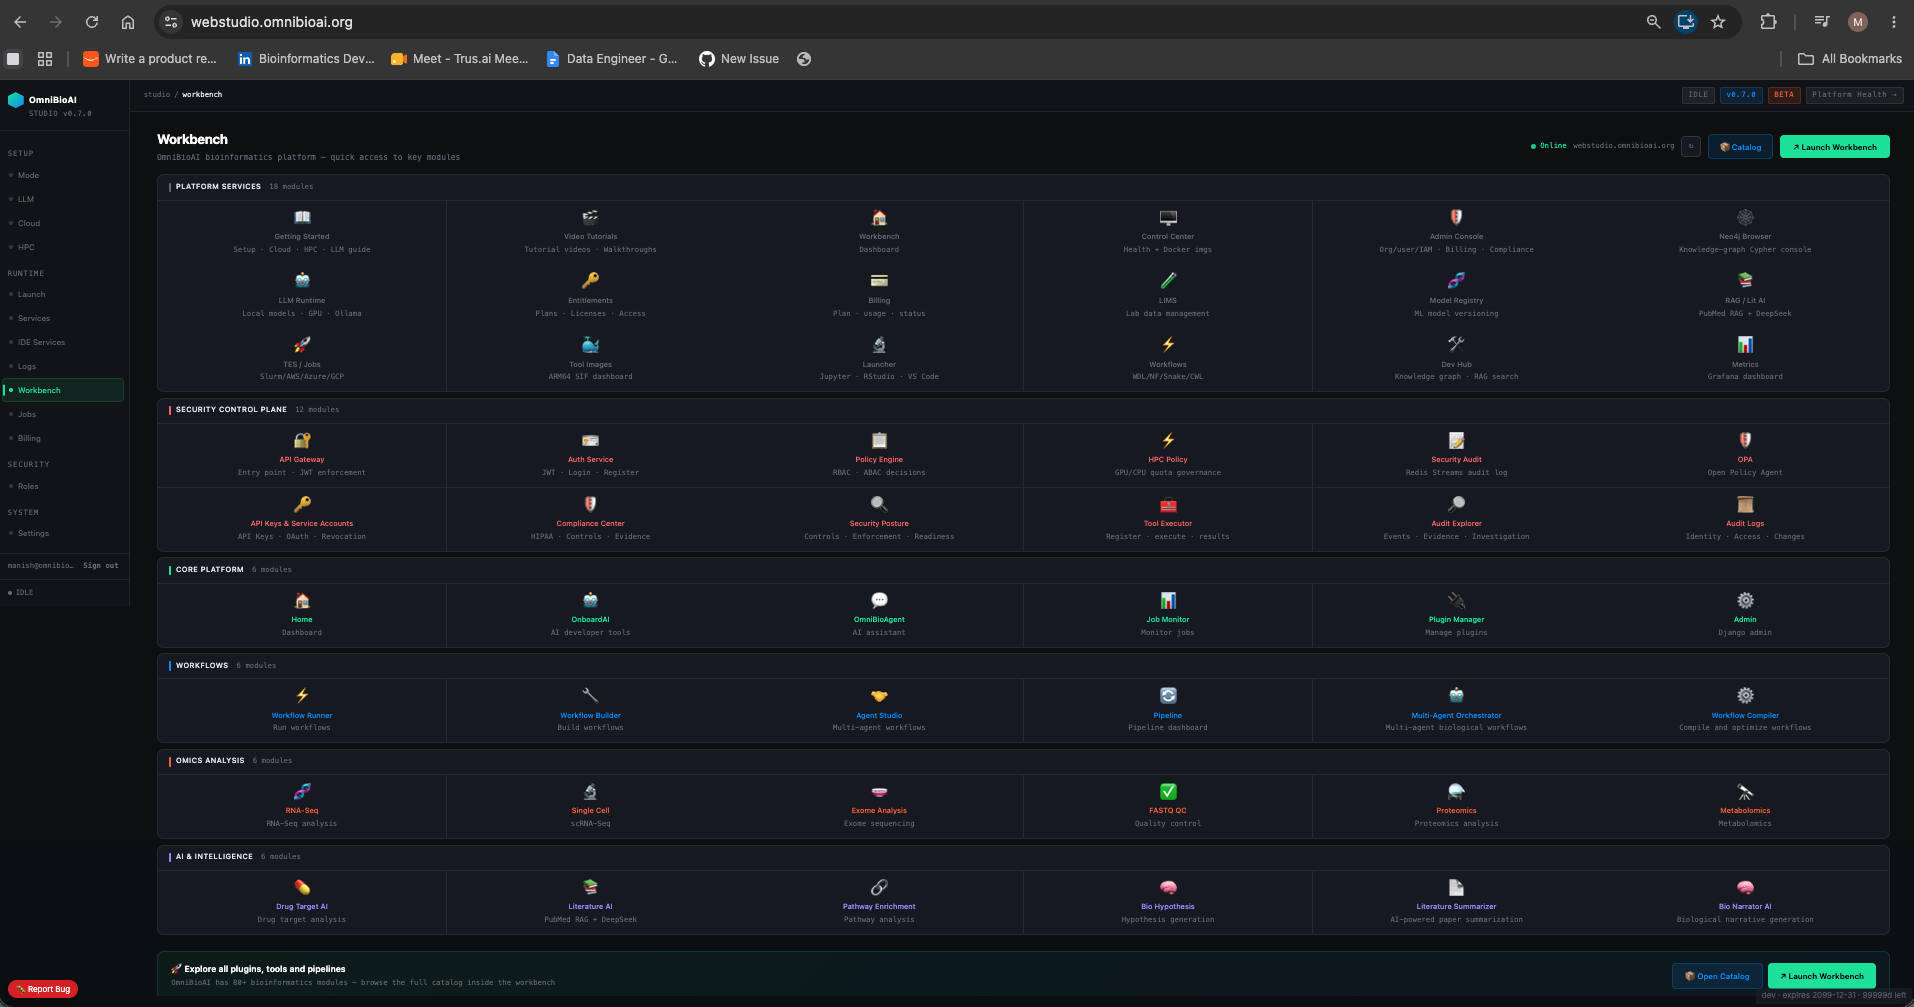
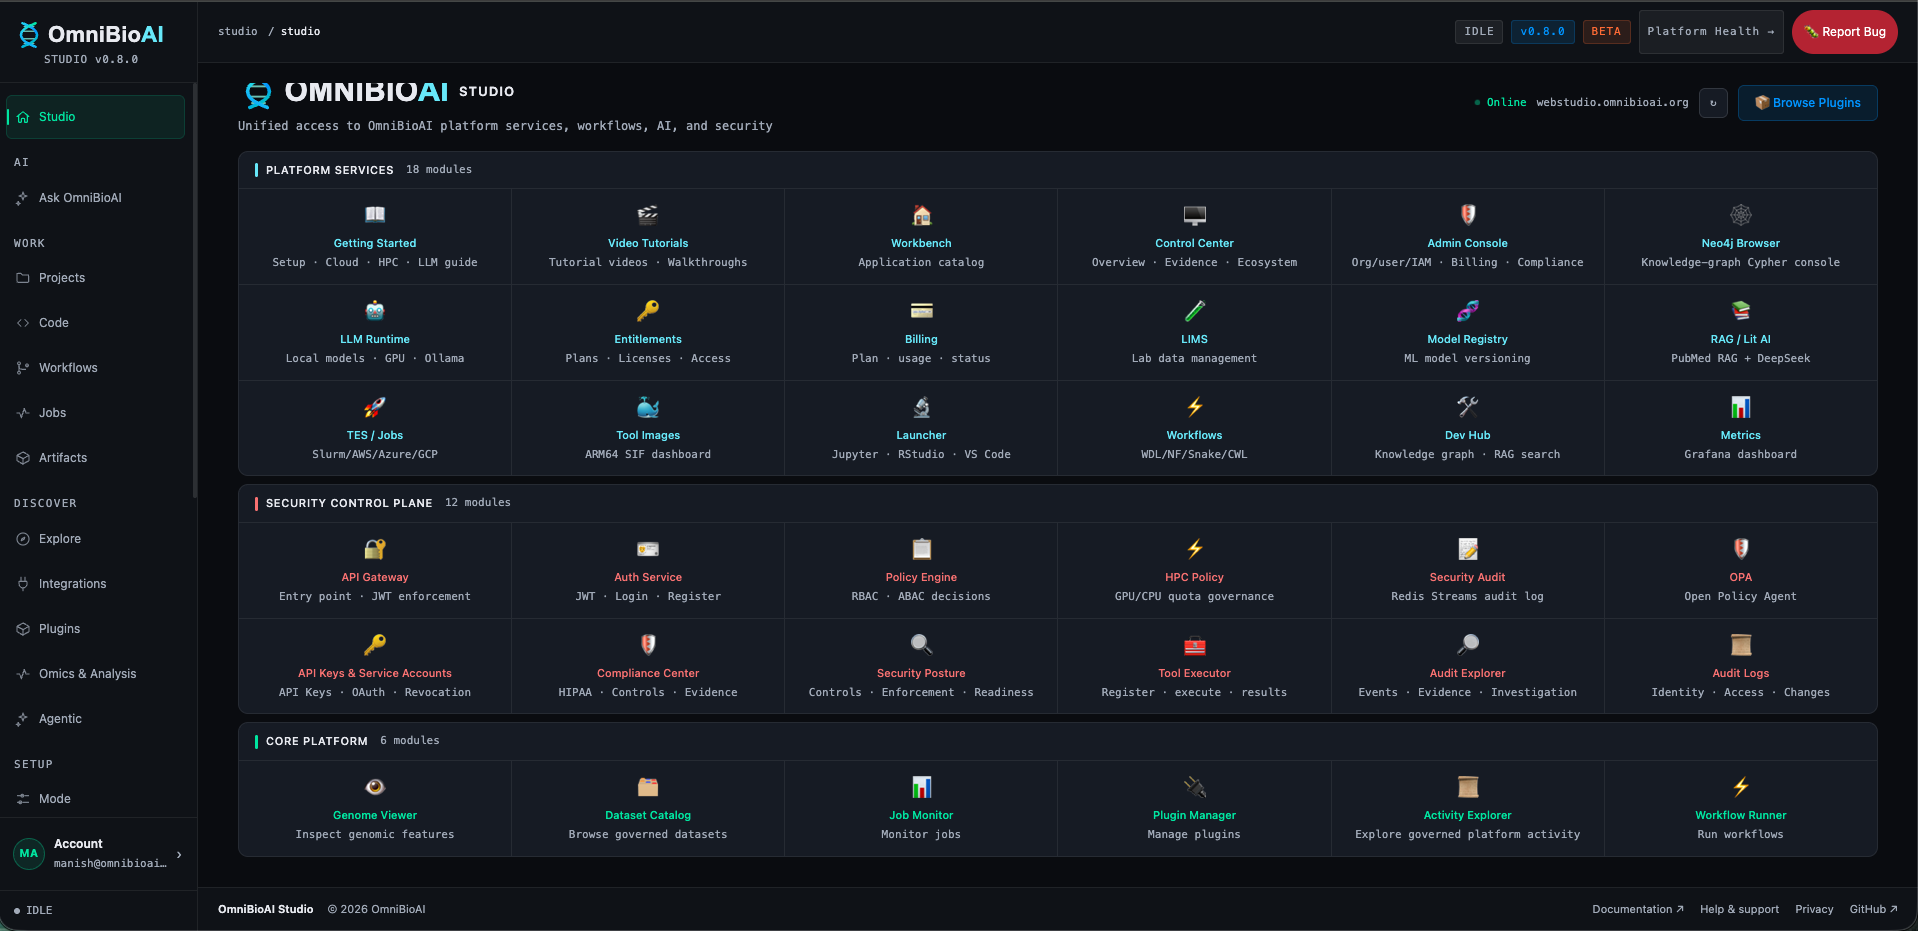
docs(studio): refresh README for current UI

diff --git a/README.md b/README.md
@@ -1,12 +1,12 @@
 # OmniBioAI Studio
 
-> Desktop orchestration platform for AI-powered bioinformatics computation
+> Browser and desktop workspace for AI-powered bioinformatics computation
 
-**OmniBioAI Studio** is an Electron desktop app that launches and manages the full OmniBioAI stack — locally, on HPC clusters, or in the cloud — with a single click.
+**OmniBioAI Studio** is the browser and Electron desktop workspace for the OmniBioAI platform. It brings together bioinformatics plugins, AI chat and orchestration, projects, workflows, and platform services; the desktop app can also launch and manage the local stack.
 
 ## System documentation
 
-- [System architecture](docs/SYSTEM_ARCHITECTURE.md) — boundaries, flows, deployment topology, and the current 41-service Compose catalog
+- [System architecture](docs/SYSTEM_ARCHITECTURE.md) — boundaries, flows, deployment topology, and the current 42-service Compose catalog
 - [Security hardening](docs/SECURITY-COMPOSE-HARDENING.md) — production Compose security and development overrides
 - [Integration tests](tests/integration/README.md) — end-to-end test setup
 - [Operations scripts](scripts/README.md) — backup, validation, and deployment utilities
@@ -15,9 +15,11 @@
 
 ## ✨ What's New in v0.8.0-beta
 
-**Platform Consolidation & Security Hardening.** This release consolidates the
-ecosystem and hardens its security foundation; it adds no major new product
-surface. See [docs/CHANGELOG.md](docs/CHANGELOG.md) for details.
+**Platform Consolidation & Security Hardening.** This release consolidated the
+ecosystem and hardened its security foundation. The current Studio experience
+has since grown to include a curated home, dedicated plugin discovery
+categories, and a unified AI chat entry; those current surfaces are described
+below. See [docs/CHANGELOG.md](docs/CHANGELOG.md) for release history.
 
 - 🧭 **Ecosystem consolidation** — every OmniBioAI repository consolidated onto a clean `main` branch
 - 🔐 **Authentication & authorization hardening** — fail-closed token-revocation checks, HMAC-signed IAM identity caches, plugin API authorization and run-ownership enforcement in Workbench
@@ -66,7 +68,7 @@ forward to v0.9.0 (tracked in [#100](https://github.com/OmniBioAI/omnibioai-stud
 ### v0.4.0-beta ✅
 - **Version unification** — all UI components, sidebar, badge, logs, and settings now consistently report `v0.4.0-beta`
 - **23 services fully operational** — all layers (Data, Security Control Plane, Execution, AI, Developer) green
-- **1,010 registered tools** — confirmed live in Jobs → Registered Tools panel *(platform-wide tooling, including HPC/cloud/orchestration integrations, totals 11,000+ — see Bioinformatics Tools section below)*
+- **1,010 registered tools** — deployment snapshot recorded for this release *(historical count; the live catalog varies by deployment)*
 - **7 execution servers** — `local_real`, `slurm_local`, `aws_batch_prod`, `aws_batch_demo`, `azure_batch_demo`, `gcp_batch_demo`, `enrichment_remote`
 - **claude-sonnet-4-20250514** as default orchestrator model in LLM configuration
 - **IDE Services all RUNNING** — JupyterLab (:8888), RStudio (:8787), VS Code Server (:8083)
@@ -116,7 +118,15 @@ forward to v0.9.0 (tracked in [#100](https://github.com/OmniBioAI/omnibioai-stud
 
 ### Workbench — Module Overview
 ![Workbench](docs/screenshots/workbench.png)
-*Workbench catalog across 6 sections; a fully authorized user sees 18 Platform Services and 12 Security Control Plane modules*
+*Studio home with Platform Services, Security Control Plane, and the six curated Core Platform plugins; the sidebar separates Integrations, Plugins, Omics & Analysis, and Agentic discovery.*
+
+### Ask OmniBioAI — Documentation Chat
+![Ask OmniBioAI documentation chat](docs/screenshots/Ask_doc.png)
+*Documentation-grounded chat with citations, available from the unified Ask OmniBioAI entry.*
+
+### OmniBioAI Agent — Tools & Workflows
+![OmniBioAI Agent tools and workflows](docs/screenshots/Agent_tools_workflows.png)
+*The Agent tab shares the chat entry while keeping its tool/workflow orchestration session separate from Ask history.*
 
 ### LLM Configuration
 ![LLM](docs/screenshots/llm.png)
@@ -136,7 +146,7 @@ forward to v0.9.0 (tracked in [#100](https://github.com/OmniBioAI/omnibioai-stud
 
 ### Services — Full Stack
 ![Services](docs/screenshots/services.png)
-*40 Compose services across Data, Security Control Plane, Execution, AI, and Developer layers*
+*Services grouped across the Data, Security Control Plane, Execution, AI, and Developer layers; the live set varies by release configuration.*
 
 ### Live Logs
 ![Logs](docs/screenshots/logs.png)
@@ -144,7 +154,7 @@ forward to v0.9.0 (tracked in [#100](https://github.com/OmniBioAI/omnibioai-stud
 
 ### Jobs — TES Execution Engine
 ![Jobs](docs/screenshots/jobs.png)
-*1,010 registered tools · 7 execution servers (local, Slurm, AWS, Azure, GCP, enrichment_remote)*
+*Inspect registered tools, execution backends, and job activity available to the current deployment.*
 
 ### Settings
 ![Settings](docs/screenshots/settings.png)
@@ -306,75 +316,74 @@ for the full rationale.
 
 ---
 
-## 🧰 Bioinformatics Tools (11,000+)
+## 🧰 Tools, Plugins & Execution
 
-**1,010 tools** were recorded in the latest deployment snapshot (verify the current value in Jobs → Registered Tools). The broader platform catalog — including execution, cloud, HPC, and orchestration tooling across every service — is reported as **11,000+**.
-
-### Execution Servers (7)
-| Server ID | Adapter |
-|-----------|---------|
-| local_real | local |
-| slurm_local | slurm |
-| aws_batch_prod | aws_batch |
-| aws_batch_demo | aws_batch |
-| azure_batch_demo | azure_batch |
-| gcp_batch_demo | gcp_batch |
-| enrichment_remote | http_toolserver |
-
-### HTTP API Tools (510)
-Direct REST integrations — no compute needed: Ensembl, NCBI, ClinVar, gnomAD, UniProt, AlphaFold, KEGG, Reactome, PubMed, ChEMBL, DrugBank, CellxGene, HMDB, and 280+ more.
-
-### Slurm/HPC Tools (500)
-Compute tools: BWA, STAR, HISAT2, GATK, DeepVariant, DESeq2, Seurat, Scanpy, PyTorch, MSFragger, and 90+ more.
+Workbench plugins and registered execution tools are deployment-dependent and
+continue to evolve, so Studio does not treat a README count as the catalog
+source of truth. Browse **Discover → Plugins**, **Omics & Analysis**, and
+**Agentic** for plugin experiences; use **Jobs** and **Workflows** for tool
+execution and orchestration. Available tools and execution backends depend on
+the services, permissions, and credentials configured for your deployment.
 
 ---
 
-## 🧬 Workbench Modules
+## 🧬 Studio Navigation & Workbench
 
-Counts below are the definitions rendered for a fully authorized user; permission gates may hide administrative tiles from other users.
+Studio's home presents curated **Platform Services**, **Security Control Plane**,
+and **Core Platform** sections. Permission-gated destinations may be hidden
+from users who do not have access; the owning service still enforces access on
+every request.
 
-### Platform Services (18 modules)
-Getting Started · Video Tutorials · Workbench · Control Center · Admin Console · Neo4j Browser · LLM Runtime · Entitlements · Billing · LIMS · Model Registry · RAG / Lit AI · TES / Jobs · Tool Images · Launcher · Workflows · Dev Hub · Metrics
+The Core Platform section is intentionally a short set of six frequently used
+Workbench tools: **Genome Viewer**, **Dataset Catalog**, **Job Monitor**,
+**Plugin Manager**, **Activity Explorer**, and **Workflow Runner**. It is a
+curated launch area, not the full plugin catalog.
 
-### Security Control Plane (12 modules)
-API Gateway · Auth Service · Policy Engine · HPC Policy · Security Audit · OPA · API Keys & Service Accounts · Compliance Center · Security Posture · Tool Executor · Audit Explorer · Audit Logs
+### Discover
 
-### Core Platform (6 modules)
-Home · OnboardAI · OmniBioAgent · Job Monitor · Plugin Manager · Admin
+The Discover navigation keeps the major catalogs separate:
 
-### Workflows (6 modules)
-Workflow Runner · Workflow Builder · Agent Studio · Pipeline Dashboard · Multi-Agent Orchestrator · Workflow Compiler
+- **Explore** — browse scientific domains and platform resources.
+- **Integrations** — external bioinformatics and data-provider connections.
+- **Plugins** — browse the broader Workbench plugin catalog.
+- **Omics & Analysis** — find analysis tools by omics area.
+- **Agentic** — discover agentic AI and orchestration tools.
 
-### Omics Analysis (6 modules)
-RNA-Seq · Single Cell (scRNA-Seq) · Exome Analysis · FASTQ QC · Proteomics · Metabolomics
+Catalog membership and counts can change as Workbench evolves; use the live
+Studio catalog for the current list rather than relying on a README count.
 
-### AI & Intelligence (6 modules)
-Drug Target AI · Literature AI · Pathway Enrichment · Bio Hypothesis · Literature Summarizer · Bio Narrator AI
+### Unified AI workspace
+
+The **Ask OmniBioAI** navigation entry opens one workspace with two tabs:
+
+- **Ask · Documentation** answers from published OmniBioAI documentation and
+  cites its sources.
+- **Agent · Tools & workflows** can analyze data, run bioinformatics tools,
+  search literature, and plan workflows.
+
+The two experiences retain separate conversation histories and their own
+service/model/data policies; the unified entry does not merge their backends.
 
 ---
 
-## 🖥 Runtime Modes
+## 🖥 Runtime & Execution Configuration
 
-| Mode | Status | Description |
-|------|--------|--------------|
-| **Beta Cloud** | ✅ Available | Connects to `webstudio.omnibioai.org` — no local Docker needed |
-| Local | ✅ Available | Docker-based local stack; GPU/CPU support depends on host configuration |
-| HPC | Coming soon | Slurm / PBS / LSF, Apptainer remote execution |
-| Cloud | Coming soon | AWS Batch / Azure Batch, elastic auto-scaling |
-| Hybrid | Coming soon | Multi-backend orchestration, policy-driven scheduling |
+The Runtime Mode selector currently offers **Beta Cloud**, which connects to
+`webstudio.omnibioai.org` without requiring a local Docker stack. Studio also
+provides configuration pages for local LLMs, cloud providers, and HPC
+connection settings. Actual execution options depend on the deployment's
+enabled services, credentials, and backend availability; see **Jobs** and
+**Workflows** for the options available to your account.
 
 ---
 
 ## 🤖 LLM Configuration
 
-| Provider | Model | Notes |
-|----------|-------|-------|
-| Ollama (local) | deepseek-coder:latest | Default local model; GPU-accelerated |
-| Embedding | nomic-embed-text | Local embedding model |
-| Claude API | claude-sonnet-4-20250514 | Default orchestrator model |
-| OpenAI / Codex | gpt-4o | Optional cloud fallback |
-
-Runtime options: Offline-first mode, Enable RAG (vector retrieval), Default Orchestrator Model selector.
+Studio's LLM settings expose local Ollama models, Claude API, and OpenAI / Codex.
+Model names and provider availability are configurable and may be supplied by
+your organization; the UI also includes GPU acceleration, embedding-model,
+offline-first, RAG, and default-orchestrator settings. Provider credentials
+are managed by the organization rather than stored in Studio.
 
 ---
 
@@ -578,7 +587,7 @@ Reports are sent to our dashboard. Response within 24 hours during beta. Disable
 
 | Repository | Role |
 |------------|------|
-| `omnibioai` | Main Django workbench + 351 plugins |
+| `omnibioai` | Main Django Workbench and plugin catalog |
 | `omnibioai-api-gateway` | Zero-trust API gateway |
 | `omnibioai-auth` | JWT authentication service |
 | `omnibioai-policy-engine` | RBAC/ABAC authorization |
@@ -588,7 +597,7 @@ Reports are sent to our dashboard. Response within 24 hours during beta. Disable
 | `omnibioai-toolserver` | FastAPI tool API |
 | `omnibioai-lims` | Lab data management |
 | `omnibioai-model-registry` | ML model versioning |
-| `omnibioai-control-center` | Health + image dashboard |
+| `omnibioai-control-center` | Operations reporting, platform health, and administrative surfaces |
 | `omnibioai-rag` | PubMed RAG pipeline |
 | `omnibioai-dev-hub` | Knowledge graph + embeddings |
 | `omnibioai-workflow-bundles` | WDL/Nextflow/Snakemake bundles |
